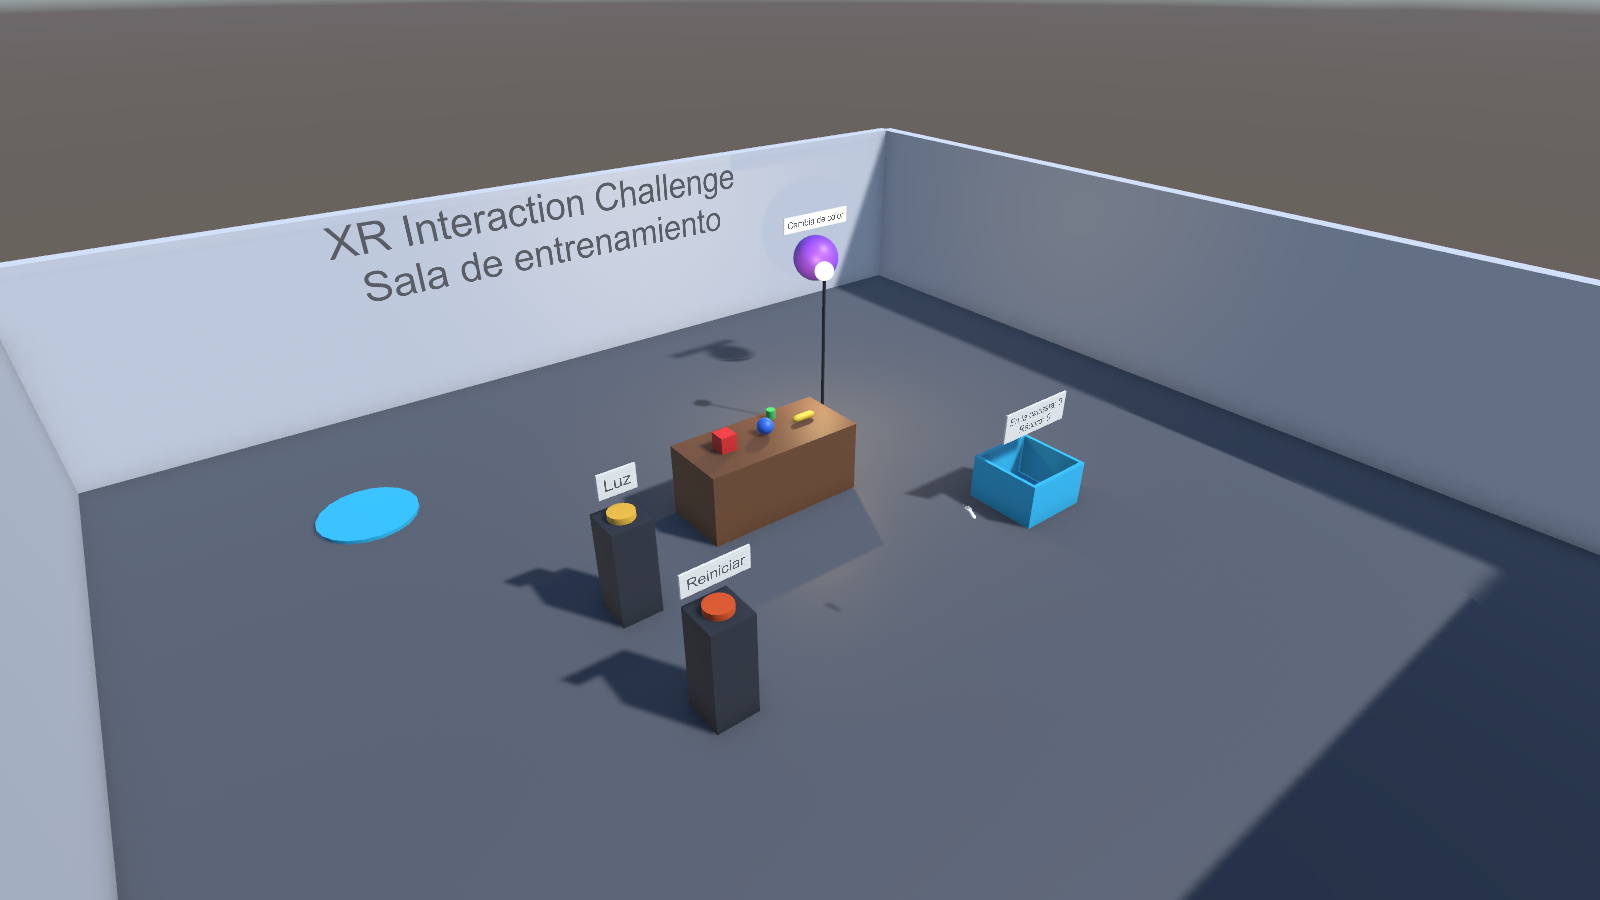
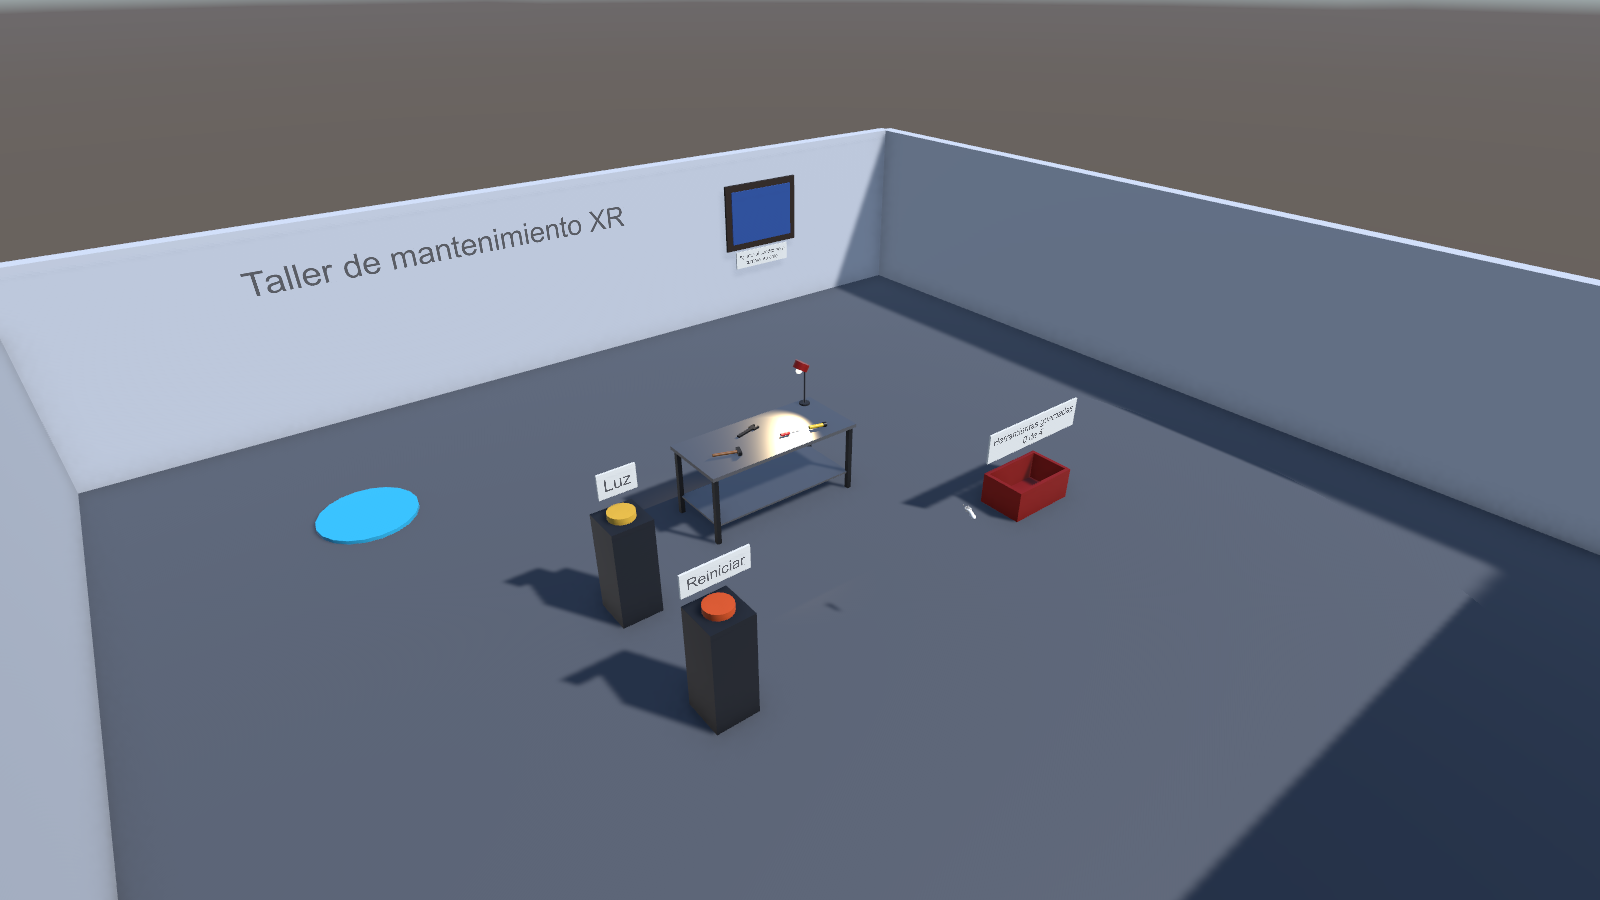
docs: README y capturas del taller

Changed region(s): [[0.4062, 0.4044, 0.6875, 0.6222], [0.1562, 0.1867, 0.5312, 0.3422], [0.4375, 0.3733, 0.4688, 0.4044]]

diff --git a/README.md b/README.md
@@ -1,4 +1,4 @@
-# XR Interaction Challenge
+# Taller de mantenimiento XR
 
 **Estudiante:** Ttito, Max
 **Código:** PENDIENTE
@@ -7,20 +7,22 @@
 
 ## Descripción
 
-Sala de entrenamiento XR hecha en Unity 6.6 con URP y XR Interaction Toolkit. Es un cuarto de 12 x 12 m cerrado por cuatro
-muros, con una mesa de objetos para agarrar y lanzar, un botón que prende y apaga una lámpara, un orbe que cambia de color
-con el rayo y una canasta que cuenta cuántos objetos caen dentro.
+Proyecto del XR Interaction Challenge hecho en Unity 6.6 con URP y XR Interaction Toolkit. La escena es un taller de
+12 x 12 m cerrado por cuatro muros. Sobre una mesa de metal hay herramientas que se pueden agarrar y lanzar, una lámpara
+de trabajo que se prende con un botón, un cuadro en la pared que cambia de color con el rayo y una caja roja donde hay que
+guardar las herramientas.
 
 La escena es `Assets/Scenes/EC_XR_TtitoMax.unity`.
 
 ## Funcionalidades
 
-- **Objetos manipulables:** cubo, esfera, herramienta y llave. Cada uno tiene `Rigidbody` y `XR Grab Interactable`, se
-  pueden lanzar al soltarlos y si se caen fuera de la sala vuelven a la mesa.
-- **Interacción a distancia:** el botón amarillo del pedestal enciende y apaga la lámpara, y el orbe morado cambia de
-  color. Los dos usan `XR Simple Interactable` y se activan apuntando con el rayo.
-- **Reto libre:** la canasta azul lleva la cuenta de los objetos que tiene dentro y el récord. Además el piso sirve para
-  teletransportarse, hay una plataforma de teleport en una esquina y el botón rojo devuelve todo a la mesa.
+- **Objetos manipulables:** martillo, llave inglesa, destornillador y linterna, armados con primitivas. Cada uno tiene
+  `Rigidbody` y `XR Grab Interactable`, se lanza al soltarlo y vuelve a la mesa si cae fuera de la sala.
+- **Interacción a distancia:** el botón amarillo del pedestal prende y apaga la lámpara de trabajo, y el cuadro de la
+  pared cambia de color. Los dos usan `XR Simple Interactable` y se activan apuntando con el rayo.
+- **Reto libre:** la caja de herramientas cuenta cuántas herramientas tiene guardadas y muestra "¡Taller ordenado!" cuando
+  están las cuatro. Además el piso sirve para teletransportarse, hay una plataforma de teleport en una esquina y el botón
+  rojo devuelve todo a la mesa.
 
 ## Controles
 
@@ -45,7 +47,7 @@ Las dos manos funcionan igual: cualquiera puede agarrar, pulsar botones y teletr
 
 ## Capturas
 
-Vista general del escenario:
+Vista general del taller:
 
 ![Vista general](Docs/capturas/01-vista-general.png)
 
@@ -53,13 +55,17 @@ Componentes en el Inspector:
 
 ![Inspector](Docs/capturas/02-inspector.png)
 
-Interacción en Play: esfera agarrada, lámpara apagada con el botón y orbe cambiado de color:
+Interacción en Play: martillo en la mano derecha, cuadro cambiado de color y dos herramientas ya guardadas en la caja:
 
 ![Interacción](Docs/capturas/03-interaccion.png)
 
-Mesa con los objetos:
+Mesa de metal con las herramientas y la lámpara de trabajo:
 
 ![Mesa](Docs/capturas/04-mesa.png)
+
+Cuadro que cambia de color:
+
+![Cuadro](Docs/capturas/05-cuadro.png)
 
 ## Video
 
